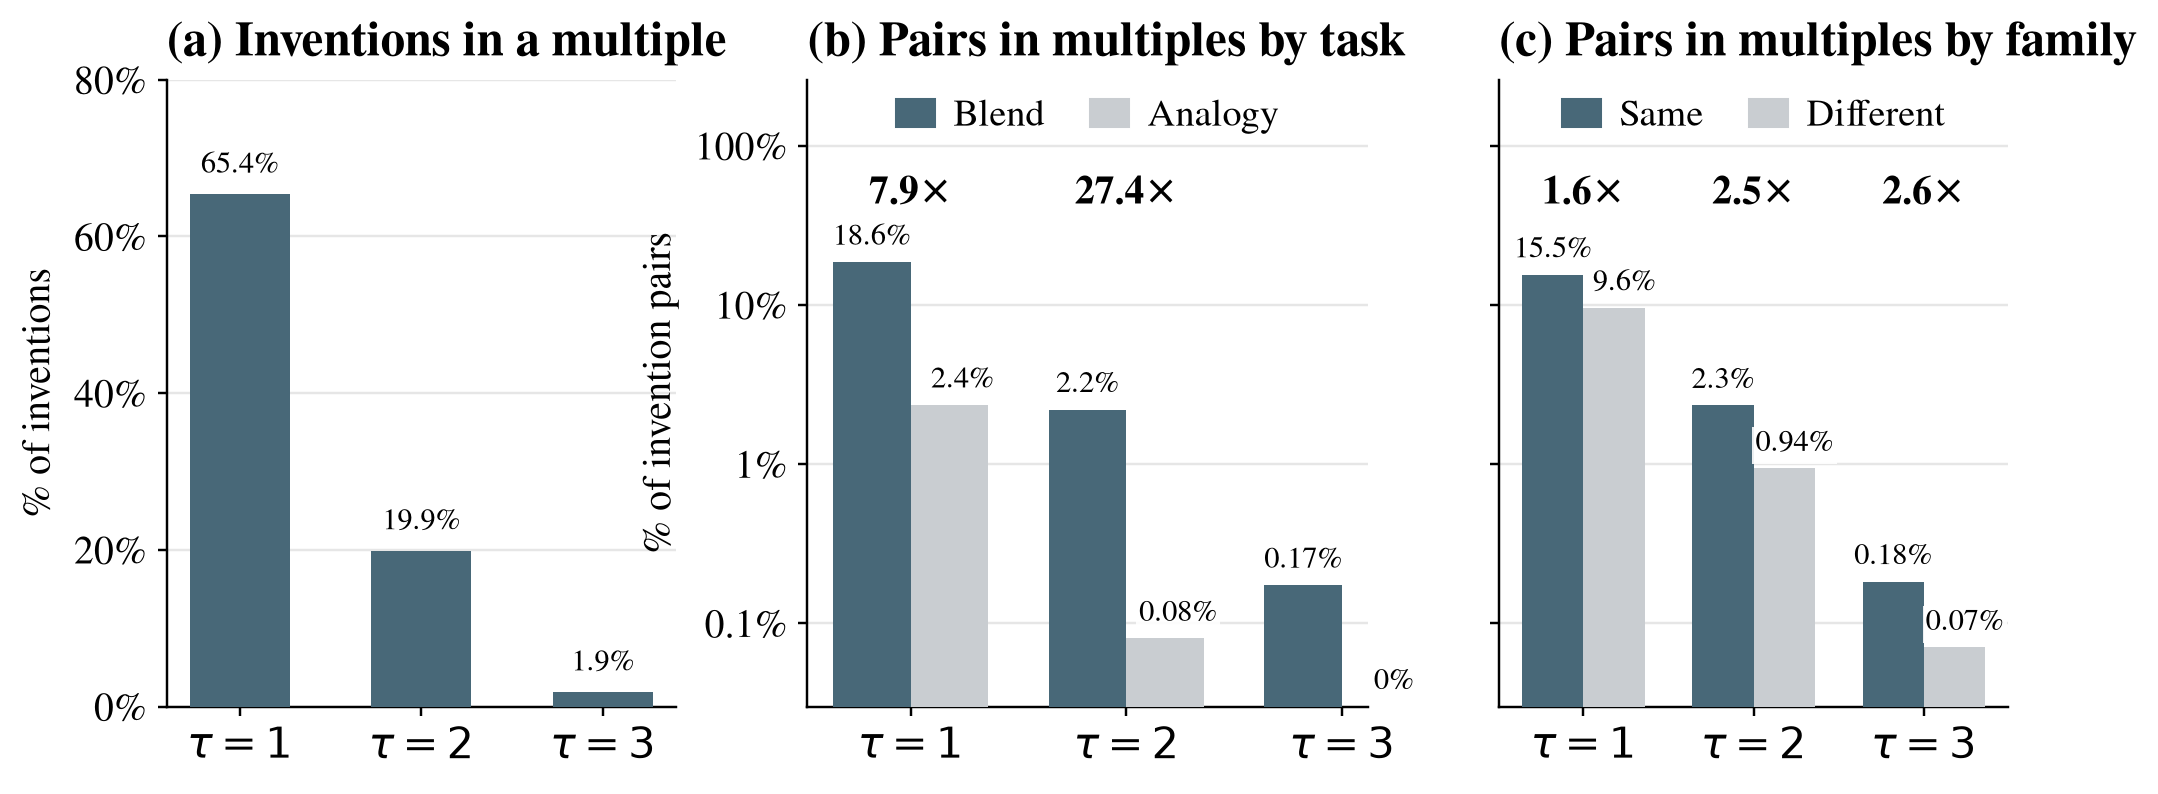
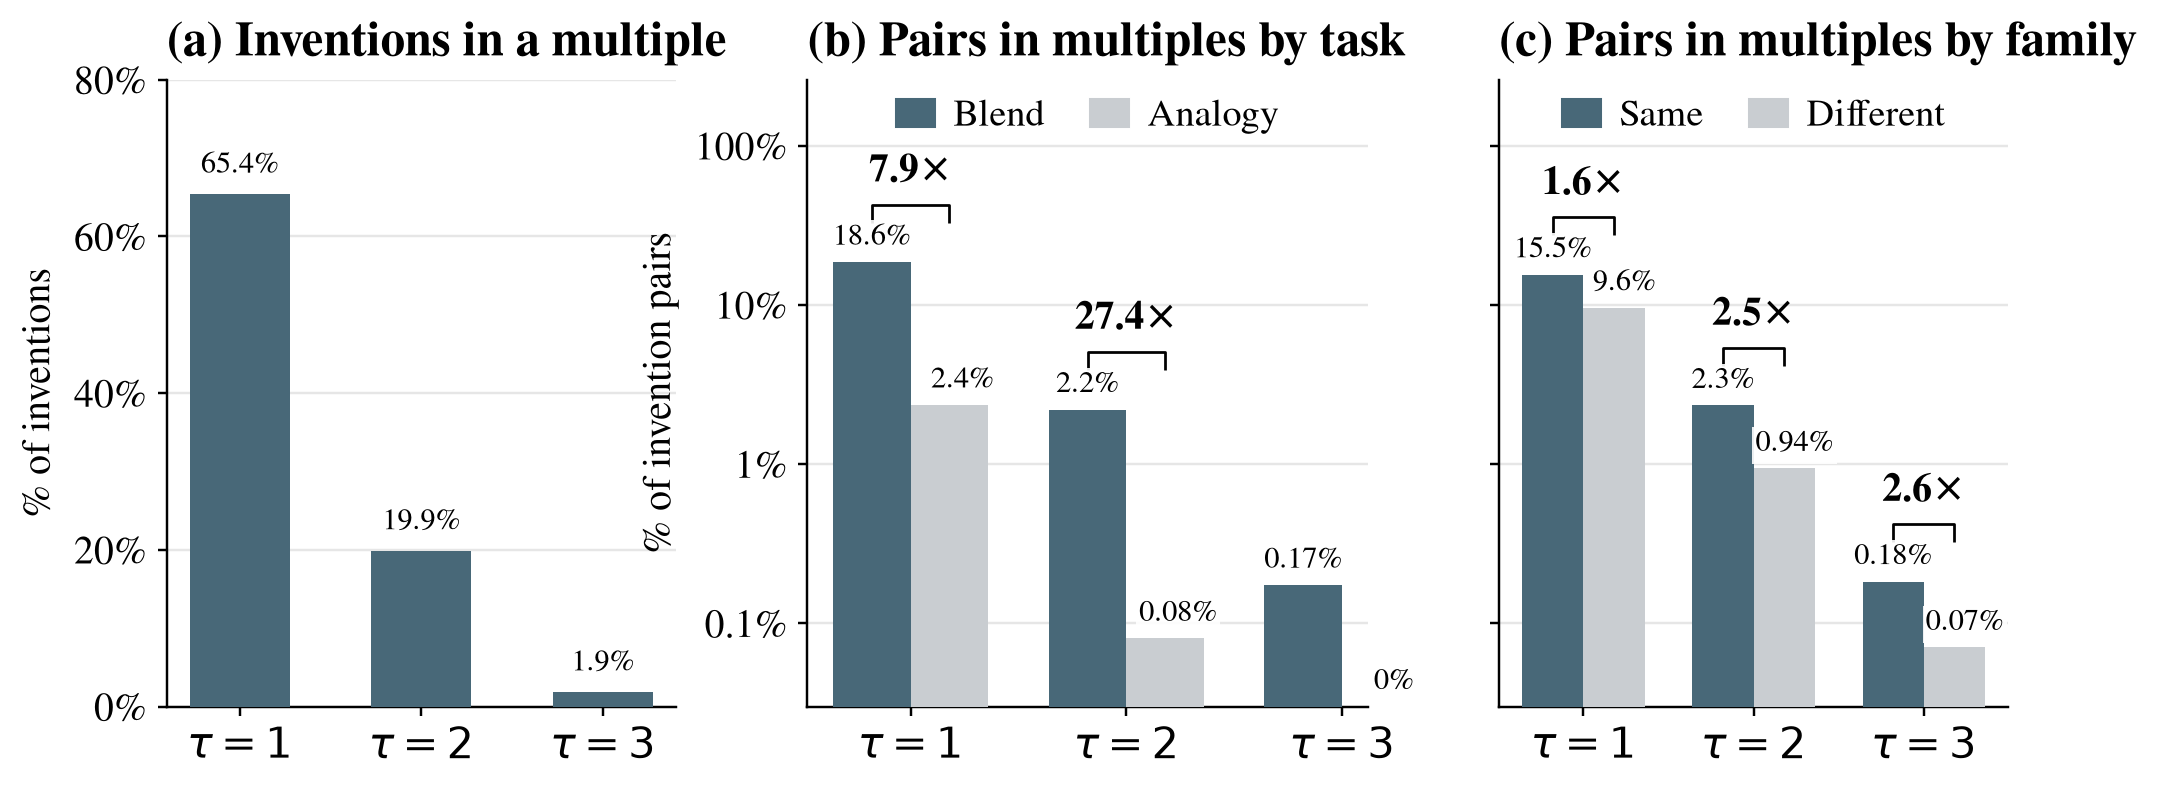
plot_tau_multiples: ratio over a bracket spanning each bar pair

diff --git a/src/kg_creat/scripts/plot_tau_multiples.py b/src/kg_creat/scripts/plot_tau_multiples.py
@@ -58,10 +58,14 @@ def bars(ax, taus, left, right, left_lab, right_lab, cl, cr, ratio=True, ytick_l
             nudge = side * 0.06 if other > vi else 0.0        # the shorter bar's label steps away from its taller neighbour
             ax.text(xi + nudge, y, txt, ha="center", va="bottom", fontsize=10, color="black", zorder=5,
                     bbox=dict(boxstyle="square,pad=0.1", facecolor="white", edgecolor="none", alpha=0.9))
-    if ratio:                                                  # the left/right ratio, one row at a fixed height above each pair
+    if ratio:                                                  # left/right ratio over a bracket spanning the two bars
         for xi, (l, r) in enumerate(zip(left, right)):
             if r > 0:
-                ax.text(xi, RATIO_Y, f"{l / r:.1f}$\\times$", ha="center", va="center", fontsize=13, fontweight="bold", color="black")
+                top = max(l, r) * 2.3                              # bracket bar sits above both value labels (log axis)
+                tick = top / 1.3                                   # short drops at the bracket ends
+                ax.plot([xi - w / 2, xi - w / 2, xi + w / 2, xi + w / 2], [tick, top, top, tick], color="black", lw=0.9,
+                        solid_capstyle="butt", zorder=4, clip_on=False)
+                ax.text(xi, top * 1.15, f"{l / r:.1f}$\\times$", ha="center", va="bottom", fontsize=13, fontweight="bold", color="black")
     ax.set_xticks(x); ax.set_xticklabels([f"$\\tau={t}$" for t in taus], fontsize=14)
     ax.set_yscale("log"); ax.set_ylim(YMIN, 260)
     ax.set_yticks([0.1, 1, 10, 100]); ax.set_yticklabels(["0.1%", "1%", "10%", "100%"] if ytick_labels else [], fontsize=13)
@@ -70,7 +74,6 @@ def bars(ax, taus, left, right, left_lab, right_lab, cl, cr, ratio=True, ytick_l
     return [Patch(color=cl, label=left_lab), Patch(color=cr, label=right_lab)]
 
 
-RATIO_Y = 48                                      # the ratio row sits on one line, above the tallest bar and below the legend
 
 
 def main():
